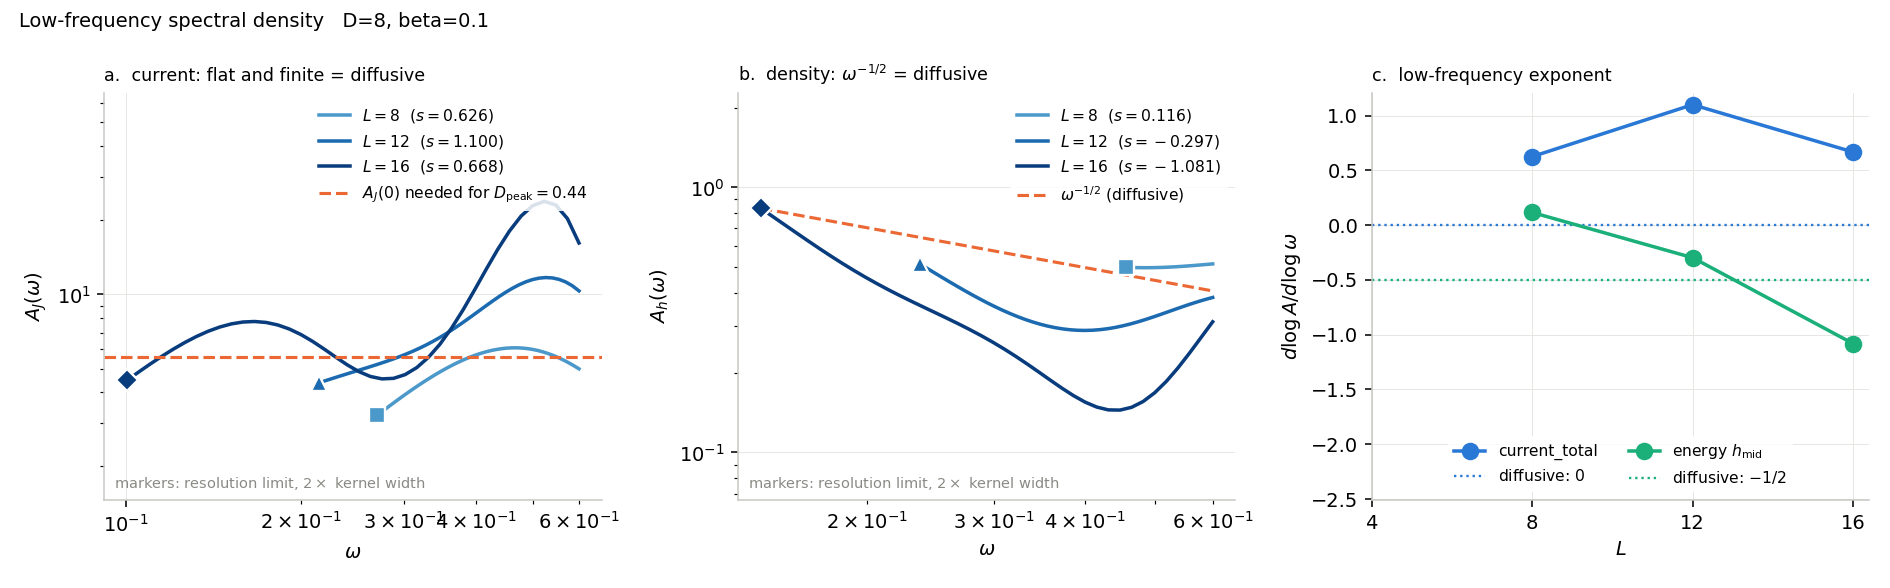
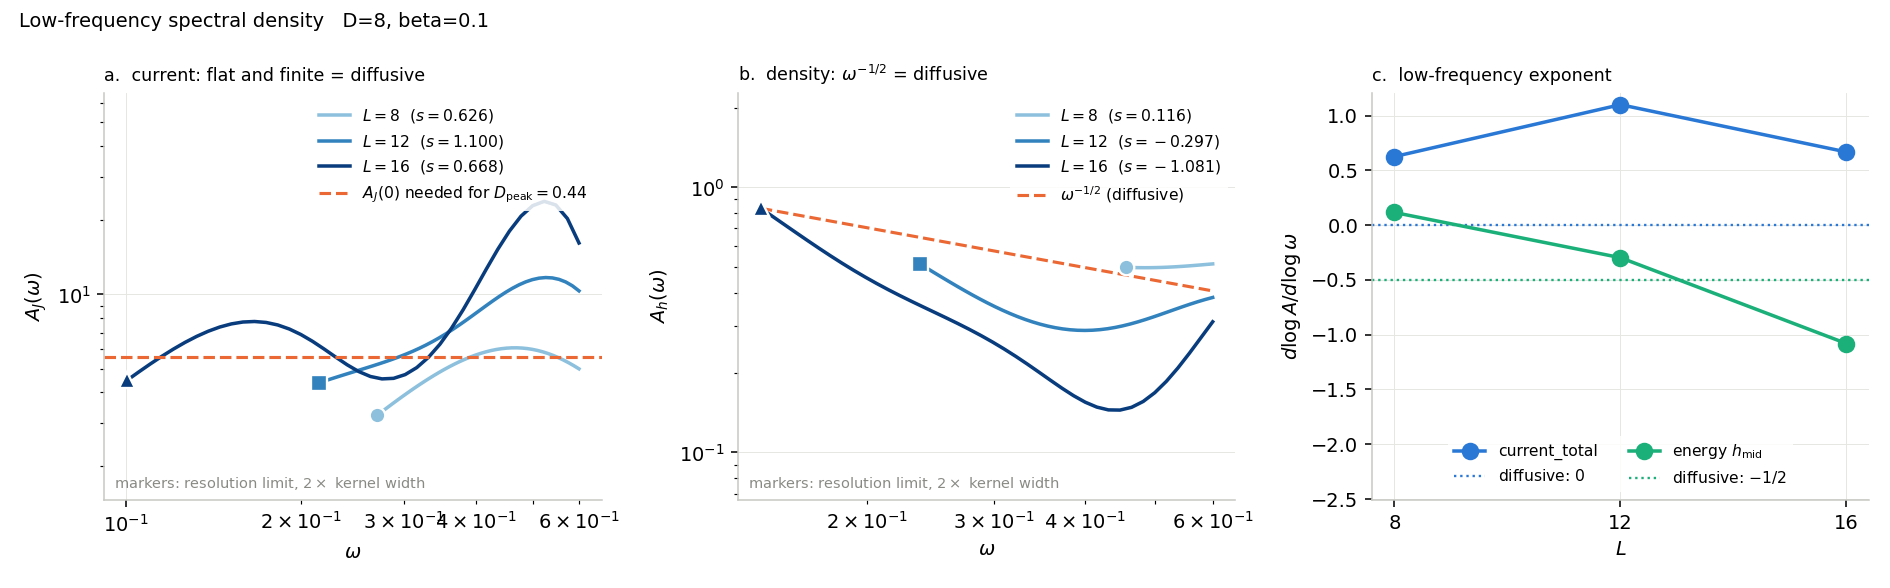
Remove the L = 4 run; it was a test point, not a result
Dropped from scan_results.pkl, both READMEs, WORKFLOW.md, the scan's
default L_VALUES, and its six per-observable figures. D8_timescale_scan,
D8_spectral_density and D8_green_kubo regenerated from L = 8, 12, 16.

Two places used L = 4 as a control rather than a result, so the control
was re-measured rather than deleted:

- static_variance's "capture = 1.0000 is not vacuous" argument. Re-run at
  L = 8: a product over every site of a random traceless Hermitian
  single-site operator captures below 0.001, and below 0.01 if the random
  operator acts on the full doubled site, against 1.0000 for every
  physical observable. Not a degenerate ratio -- the random operator's
  variance is 3.9e-03 while the captured weight is ~1e-08. The control is
  sharper at L = 8 than the L = 4 one it replaces, since capture falls
  with operator weight.
- dephasing_response's reason for subtracting the floor. Restated from
  the surviving sizes: the energy floor is 0.156, 0.100, 0.074 at
  L = 8, 12, 16, roughly 1.2/L, so a raw 1/e crossing at L = 8 must wait
  for C~ to fall to 0.251 rather than 0.368, and once the floor reaches
  1/e the raw crossing stops existing.

WORKFLOW's open item 1 (beta = 1 vs high temperature) cited a Schmidt
spectrum measured at L = 4. That question has since been answered at
L = 16, so the item is struck through and pointed at the answer: the
concern was real, but the resolution is to raise L rather than beta.
[…]

diff --git a/lyapunov/relaxation/response.py b/lyapunov/relaxation/response.py
@@ -202,10 +202,14 @@ def static_variance(psi, O_mpo, tol=1e-8):
     is the fraction of O's static weight the tangent space captures. At
     beta = 0.1, D = 8 that ratio is 1.0000 to machine precision for every
     observable here -- z, x, h_l, j_l, J_tot and H alike -- so the
-    Green-Kubo numerator carries *no* static truncation error. The ratio is
-    not vacuous: a weight-L product of random single-site rotations scores
-    0.66 at L = 4, and a random product on the full doubled site 0.78. What
-    the physical observables have in common is that they are sums of
+    Green-Kubo numerator carries *no* static truncation error. The ratio
+    is not vacuous, and the control is emphatic: at L = 8 a product over
+    every site of a random traceless Hermitian single-site operator scores
+    below 0.001 (and below 0.01 if the random operator acts on the full
+    doubled site), against 1.0000 for every observable here. Nothing is
+    degenerate about that ratio -- the random operator's variance is a
+    healthy 3.9e-03 while the weight the tangent space sees is ~1e-08.
+    What the physical observables have in common is that they are sums of
     low-weight terms, and near beta = 0 the state is close to rank 1, where
     the padded tangent space is generous.
 
@@ -659,9 +663,12 @@ def dephasing_response(C, c_inf):
     C(t) = C_inf + (1 - C_inf) C~(t) is exact, not an approximation: it
     splits the response into a conserved piece and a dephasing piece, and
     only the second has a relaxation time. Fitting or 1/e-crossing the raw
-    C measures it against the wrong asymptote -- at L = 8 the energy floor
-    is 0.156, and at L = 4 it is 0.349, which is close enough to 1/e =
-    0.368 that the raw crossing time is nearly meaningless.
+    C measures it against the wrong asymptote. The energy floor is 0.156,
+    0.100, 0.074 at L = 8, 12, 16 -- roughly 1.2/L, so it grows as the
+    chain shortens. At L = 8 a raw crossing has to wait for C~ to fall to
+    (1/e - 0.156)/0.844 = 0.251 rather than to 0.368, which inflates the
+    time; and once the floor reaches 1/e = 0.368 the raw crossing stops
+    existing at all.
     """
     c_inf = float(c_inf)
     if not c_inf:

diff --git a/lyapunov/relaxation/run_relaxation_scan.py b/lyapunov/relaxation/run_relaxation_scan.py
@@ -34,7 +34,7 @@ import lyapunov.relaxation.response as resp
 J, H_FIELD, G_FIELD = 1, 0.25, -0.525   # tilted Ising defaults (1702.08894)
 BETA = 0.1                              # inverse temperature of psi_uniform
 D = 8                                   # bond dimension, same for every L
-L_VALUES = [4, 8, 12, 16]
+L_VALUES = [8, 12, 16]
 IMAG_STEPS = 60                         # TDVP steps for the imaginary-time build
 SEED_NOISE = 0.0                        # none needed, see build_uniform_thermofield
 T_MAX_FACTOR = 3.0                      # response evaluated to this * t_heis

diff --git a/lyapunov/relaxation/plots.py b/lyapunov/relaxation/plots.py
@@ -467,6 +467,10 @@ def plot_timescale_scan(results, names=None, axes=None, title=None,
     if n_rejected:
         _annotate(ax_tau, [f'{n_rejected} of {len(names) * len(L)} fits',
                            f'rejected at $R^2 < {r2_min:g}$'])
+    # Headroom before the legend and the rejected-fits note go in: both sit
+    # along the top, and the slowest series runs up into them otherwise.
+    lo, hi = ax_tau.get_ylim()
+    ax_tau.set_ylim(lo, hi + 0.55 * (hi - lo))
     _legend(ax_tau, loc='upper left')
     _recede(ax_tau)
 

diff --git a/lyapunov/relaxation/README.md b/lyapunov/relaxation/README.md
@@ -213,7 +213,7 @@ Scan defaults in `run_relaxation_scan.py`:
 |---|---|---|
 | `BETA` | 0.1 | see below |
 | `D` | 8 | same for every L, so the tangent dimension grows only through L |
-| `L_VALUES` | 4, 8, 12, 16 | |
+| `L_VALUES` | 8, 12, 16 | |
 | `IMAG_STEPS` | 60 | TDVP steps for the imaginary-time build |
 | `SEED_NOISE` | 0 | none needed, see below |
 
@@ -309,13 +309,12 @@ equilibrium state, which is why the energy profile is stationary to
 `O(t²)` — so it has to build up first, on the Maxwell–Cattaneo timescale
 `τ ∂_t j + j = -D ∇e`. That `τ` is what `current_mid` measures.
 
-Scan: `L = 4, 8, 12, 16`, `D = 8`, `β = 0.1`, seed 0. Figures
+Scan: `L = 8, 12, 16`, `D = 8`, `β = 0.1`, seed 0. Figures
 `figures/D8_timescale_scan.png` and
 `figures/L16_D8_{current,energy}_mid_{spectrum,response}.png`.
 
 | L | τ(current) | τ(energy) | ratio | current `n_eff` | energy `n_eff` |
 |---|---|---|---|---|---|
-| 4 | 0.903 | 3.024 | 3.35 | 30 | 7 |
 | 8 | 0.973 | 1.494 | 1.54 | 177 | 40 |
 | 12 | 0.974 | 1.531 | 1.57 | 324 | 76 |
 | 16 | 0.958 | 1.484 | 1.55 | 383 | 116 |
@@ -372,8 +371,6 @@ and is stable across L where the fit is not.
 - **τ(current) is only 1.5x above its own `t_zeno` = 0.64**, so the window
   in which an exponential regime could exist is marginal for this
   observable — narrower than for the energy density.
-- L = 4 is not converged for either observable and should be ignored.
-
 **Followed up** in the next section: the zero-frequency weight in finding 2
 *is* the Green–Kubo integrand.
 
@@ -396,8 +393,8 @@ extensive, and it is their ratio converging in `L` that has to be checked.
 `single_copy_current` is the local `j_mid`, and its autocorrelator is only
 the `r = 0` term of `sum_r <j_r(t) j_0(0)>`. The `r != 0` terms carry the
 diffusive contribution, and the local term is a vanishing fraction of the
-whole: `D_peak` from `j_mid` alone falls 0.059, 0.028, 0.018, 0.013 across
-L = 4, 8, 12, 16, i.e. like `1/L`, while the total current gives 0.45.
+whole: `D_peak` from `j_mid` alone falls 0.028, 0.018, 0.013 across
+L = 8, 12, 16, i.e. like `1/L`, while the total current gives 0.45.
 
 `single_copy_total_current` builds `J_tot` as one operator. Summing the
 three-site `j_l` over *every* site, dropping what falls off the open ends,
@@ -512,7 +509,7 @@ for every L >= 8, below 1e-3 at most 5e-7, below 1e-2 at most 2.3e-4. So
 there is no ballistic delta and `D` is at least finite in principle.
 
 **The energy density carries an exact one, and must.** `conserved_fraction`
-measures it: 0.349, 0.156, 0.100, 0.074 at L = 4, 8, 12, 16, and it is
+measures it: 0.156, 0.100, 0.074 at L = 8, 12, 16, and it is
 perfectly independent of bond dimension (0.07396 at every D from 6 to 12).
 This is the Mazur bound. An observable overlapping a conserved quantity
 cannot relax to zero — split it,
@@ -970,7 +967,7 @@ Not yet written: the wavevector-resolved energy density needed to turn
 
    *Partly settled since.* D **is** the lever: the tangent dimension goes
    as ~39 D² at L = 16, and `n_eff` for the total current rises 27 → 322
-   over D = 6–12 where the whole L = 4–16 scan bought only 29 → 115. τ_1/e
+   over D = 6–12 where the whole L = 8–16 scan bought only 53 → 114. τ_1/e
    for `energy_mid` is now flat in bond dimension (1.401 / 1.408 / 1.395 /
    1.400 at D = 6/8/10/12).
 

diff --git a/lyapunov/WORKFLOW.md b/lyapunov/WORKFLOW.md
@@ -76,24 +76,24 @@ tangent basis. An assert guards it.
 python lyapunov/relaxation/run_relaxation_scan.py
 ```
 
-About 70 s for L = 4, 8, 12, 16 at D = 8. Writes `scan_results.pkl`
+About 70 s for L = 8, 12, 16 at D = 8. Writes `scan_results.pkl`
 alongside the script (weights, response curves, spectra, timings).
 
 ## Results so far
 
-Full scan L = 4, 8, 12, 16 at D = 8, **β = 0.1**, seed 0, ~70 s;
+Full scan L = 8, 12, 16 at D = 8, **β = 0.1**, seed 0, ~70 s;
 `scan_results.pkl` written. τ from the 1/e crossing of the response (the
 exponential fits are unreliable here — see below):
 
-| observable | L=4 | L=8 | L=12 | L=16 |
-|---|---|---|---|---|
-| `z_mid` | 2.021 | 2.050 | 2.131 | 2.189 |
-| `x_mid` | 0.479 | 0.479 | 0.501 | 0.480 |
-| `energy_mid` | 3.024 | 1.494 | 1.531 | 1.484 |
-| `current_mid` | 0.903 | 0.973 | 0.974 | 0.958 |
+| observable | L=8 | L=12 | L=16 |
+|---|---|---|---|
+| `z_mid` | 2.050 | 2.131 | 2.189 |
+| `x_mid` | 0.479 | 0.501 | 0.480 |
+| `energy_mid` | 1.494 | 1.531 | 1.484 |
+| `current_mid` | 0.973 | 0.974 | 0.958 |
 
-Tangent dimensions 191 / 959 / 1727 / 2495. L = 8 onward agree to ~2% for
-everything except L = 4, which is too small.
+Tangent dimensions 959 / 1727 / 2495; everything agrees to ~2% across
+the three.
 
 `z_mid` and `x_mid` were dropped from the default scan on 2026-09-18 — they
 were generic non-conserved contrasts and carry no transport information, so
@@ -182,12 +182,17 @@ Fix: derive `C^n` from the bond matrices (`C^n = Λ^{n-1} A_R^n`,
 
 ## To check
 
-1. **β = 1**, against the β ≈ 1e-2 in `active.ipynb`. At your usual
-   temperature the thermofield double is effectively rank 2 (Schmidt
-   `[1, 5e-3, 1e-8, 7e-11]` at L=4), so most of a D=8 tangent space would sit
-   on numerically null directions. β = 1 fills the bond dimension while
-   keeping the residual small. This is the judgement call most worth your
-   scrutiny.
+1. ~~**β = 1**, against the β ≈ 1e-2 in `active.ipynb`, because at high
+   temperature the thermofield double is effectively rank 2 and most of a
+   D=8 tangent space would sit on numerically null directions.~~
+   **Answered 2026-09-18, and the concern was real.** At β = 0.1 and
+   L = 16, `s_min/s_max` at the middle bond is 1.5e-8, 2.2e-9, 3.6e-9,
+   8.4e-10, 1.2e-10, 1.8e-11 for D = 6…16: past D ≈ 12 the added
+   directions *are* numerically null, and the D = 14 and D = 16 runs are
+   exactly the ones that fail the collapse test. The resolution is not to
+   raise β — the standing default stays 0.1, where hydrodynamics is
+   expected — but to stop treating bond dimension as the lever and raise L
+   instead. See `relaxation/README.md`, "Measured (2026-09-18, evening)".
 2. **`x_mid` relaxes faster than its own Zeno time**, so there is no
    exponential regime and `tau_fit` correctly returns `nan`. Only the 1/e
    crossing means anything there.
